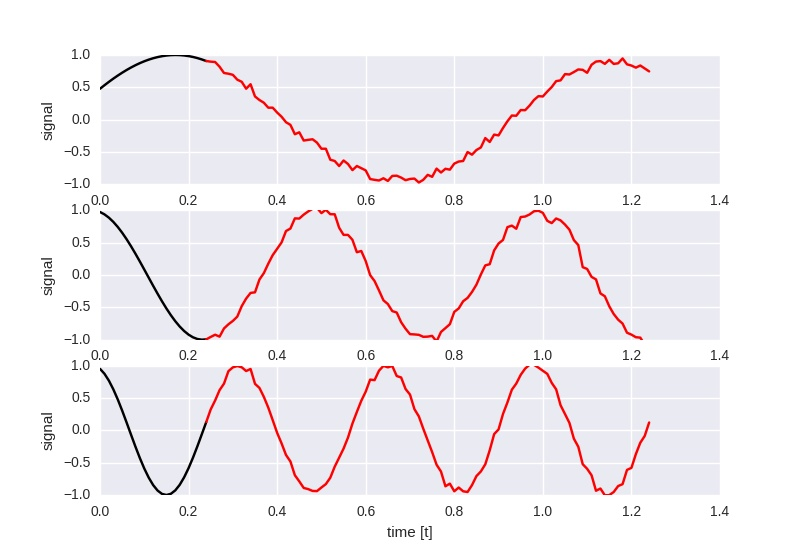
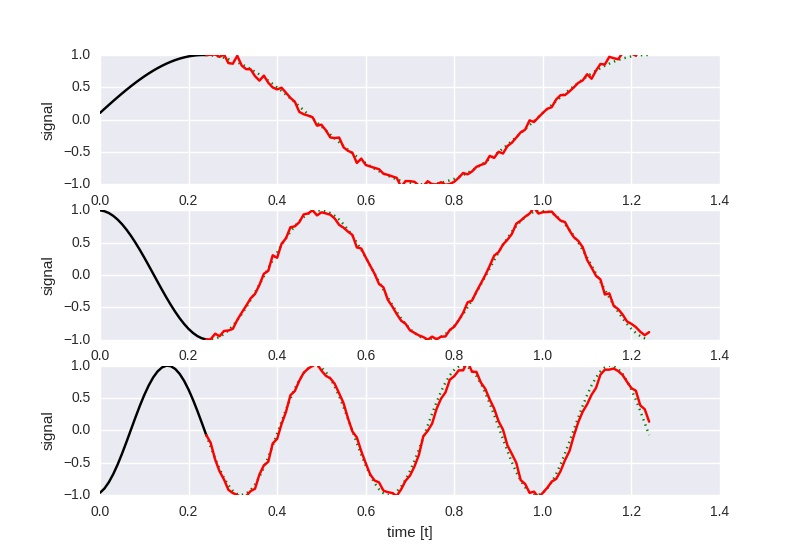
updated plots to show ground truth

diff --git a/tf-recurrent-sin-5.py b/tf-recurrent-sin-5.py
@@ -61,8 +61,12 @@ init = tf.global_variables_initializer()
 with tf.Session() as sess:
     sess.run(init)
     step = 1
+
+    loss_value = None
+    target_loss = 0.15
+
     # Keep training until reach max iterations
-    while step * batch_size < training_iters:
+    while step * batch_size < training_iters or loss_value > target_loss:
         _, batch_x, __, batch_y = generate_sample(f=None, t0=None, batch_size=batch_size, samples=n_steps, predict=n_outputs)
 
         batch_x = batch_x.reshape((batch_size, n_steps, n_input))
@@ -94,7 +98,7 @@ with tf.Session() as sess:
         prediction = prediction.squeeze()
 
         plt.plot(t, y, color='black')
-        plt.plot(np.append(t[-1], next_t), np.append(y[-1], expected_y), color='green')
+        plt.plot(np.append(t[-1], next_t), np.append(y[-1], expected_y), color='green', linestyle=':')
         plt.plot(np.append(t[-1], next_t), np.append(y[-1], prediction), color='red')
         plt.ylim([-1, 1])
         plt.xlabel('time [t]')

diff --git a/tf-recurrent-sin-2.py b/tf-recurrent-sin-2.py
@@ -86,7 +86,7 @@ with tf.Session() as sess:
         prediction = prediction.squeeze()
 
         plt.plot(t, y, color='black')
-        plt.plot(np.append(t[-1], next_t), np.append(y[-1], expected_y), color='green')
+        plt.plot(np.append(t[-1], next_t), np.append(y[-1], expected_y), color='green', linestyle=':')
         plt.plot(np.append(t[-1], next_t), np.append(y[-1], prediction), color='red')
         plt.ylim([-1, 1])
         plt.xlabel('time [t]')

diff --git a/tf-recurrent-sin-3.py b/tf-recurrent-sin-3.py
@@ -86,7 +86,7 @@ with tf.Session() as sess:
         prediction = prediction.squeeze()
 
         plt.plot(t, y, color='black')
-        plt.plot(np.append(t[-1], next_t), np.append(y[-1], expected_y), color='green')
+        plt.plot(np.append(t[-1], next_t), np.append(y[-1], expected_y), color='green', linestyle=':')
         plt.plot(np.append(t[-1], next_t), np.append(y[-1], prediction), color='red')
         plt.ylim([-1, 1])
         plt.xlabel('time [t]')

diff --git a/tf-recurrent-sin-4.py b/tf-recurrent-sin-4.py
@@ -92,7 +92,7 @@ with tf.Session() as sess:
         prediction = prediction.squeeze()
 
         plt.plot(t, y, color='black')
-        plt.plot(np.append(t[-1], next_t), np.append(y[-1], expected_y), color='green')
+        plt.plot(np.append(t[-1], next_t), np.append(y[-1], expected_y), color='green', linestyle=':')
         plt.plot(np.append(t[-1], next_t), np.append(y[-1], prediction), color='red')
         plt.ylim([-1, 1])
         plt.xlabel('time [t]')

diff --git a/tf-recurrent-sin.py b/tf-recurrent-sin.py
@@ -86,7 +86,7 @@ with tf.Session() as sess:
         prediction = prediction.squeeze()
 
         plt.plot(t, y, color='black')
-        plt.plot(np.append(t[-1], next_t), np.append(y[-1], expected_y), color='green')
+        plt.plot(np.append(t[-1], next_t), np.append(y[-1], expected_y), color='green', linestyle=':')
         plt.plot(np.append(t[-1], next_t), np.append(y[-1], prediction), color='red')
         plt.ylim([-1, 1])
         plt.xlabel('time [t]')

diff --git a/README.md b/README.md
@@ -21,11 +21,13 @@ batches of `50` examples.
 Given a single LSTM cell with `150` hidden states, predict the next `50` timesteps 
 given the last `100` timesteps. 
 
-The network is trained on sines of random frequencies between `0.5 Hz` and `4 Hz` using 
+The network is trained on sines of random frequencies between `0.5 .. 4 Hz` using 
 random shifts. Prediction quality is worse than for the `1 Hz` only experiment above,
 but it generalizes to the `2 Hz` and `3 Hz` tests.
 It was optimized with a learning rate of `0.001` for `300000` iterations and 
 batches of `50` examples.
+
+At loss `0.614914`, the prediction looks like this:
 
 ![](images/tf-recurrent-sin-2.jpg)
 
@@ -40,10 +42,14 @@ but it generalizes to the `2 Hz` and `3 Hz` tests.
 It was optimized with a learning rate of `0.0005` for `500000` iterations and 
 batches of `50` examples.
 
+The following image shows the output at loss `0.177742`:
+
 ![](images/tf-recurrent-sin-3.jpg)
 
 The following is the network trained to predict the next `100` timesteps
 given the previous `25` timesteps; the parameters are otherwise unchanged.
+
+This is the result at loss `0.257725`:
 
 ![](images/tf-recurrent-sin-3.1.jpg)
 
@@ -60,14 +66,15 @@ optimizer = adam.apply_gradients(clipped_gradients)
 ```
 
 Losses get as low as `0.069027` within the given iterations, but vary wildly.
+This is at loss `0.422188`:
 
 ![](images/tf-recurrent-sin-4.jpg)
 
 ## Experiment 5
 
 This time, the `dynamic_rnn()` function is used instead of `rnn()`, drastically improving the 
-startup time. The single LSTM cell has been replaced with `n_layers = 4` stacked LSTM cells of `n_hidden = 32` hidden
-states each.
+startup time. In addition, the single LSTM cell has been replaced with `n_layers = 4` stacked 
+LSTM cells of `n_hidden = 32` hidden states each.
 
 ```python
 lstm_cell = rnn_cell.BasicLSTMCell(n_hidden, forget_bias=1.0)
@@ -83,7 +90,9 @@ output = tf.transpose(outputs, [1, 0, 2])
 pred = tf.matmul(output[-1], weights['out']) + biases['out']
 ```
 
-The network is trained with learning rate `0.001` for `300000` iterations. The following
-picture shows the performance at loss `0.325863`.
+The network is trained with learning rate `0.001` for at least `300000` iterations
+(with the additional criterion that the loss should be below `0.15`).
+
+The following picture shows the performance at loss `0.138701` at iteration `375000`.
 
 ![](images/tf-recurrent-sin-5.jpg)
